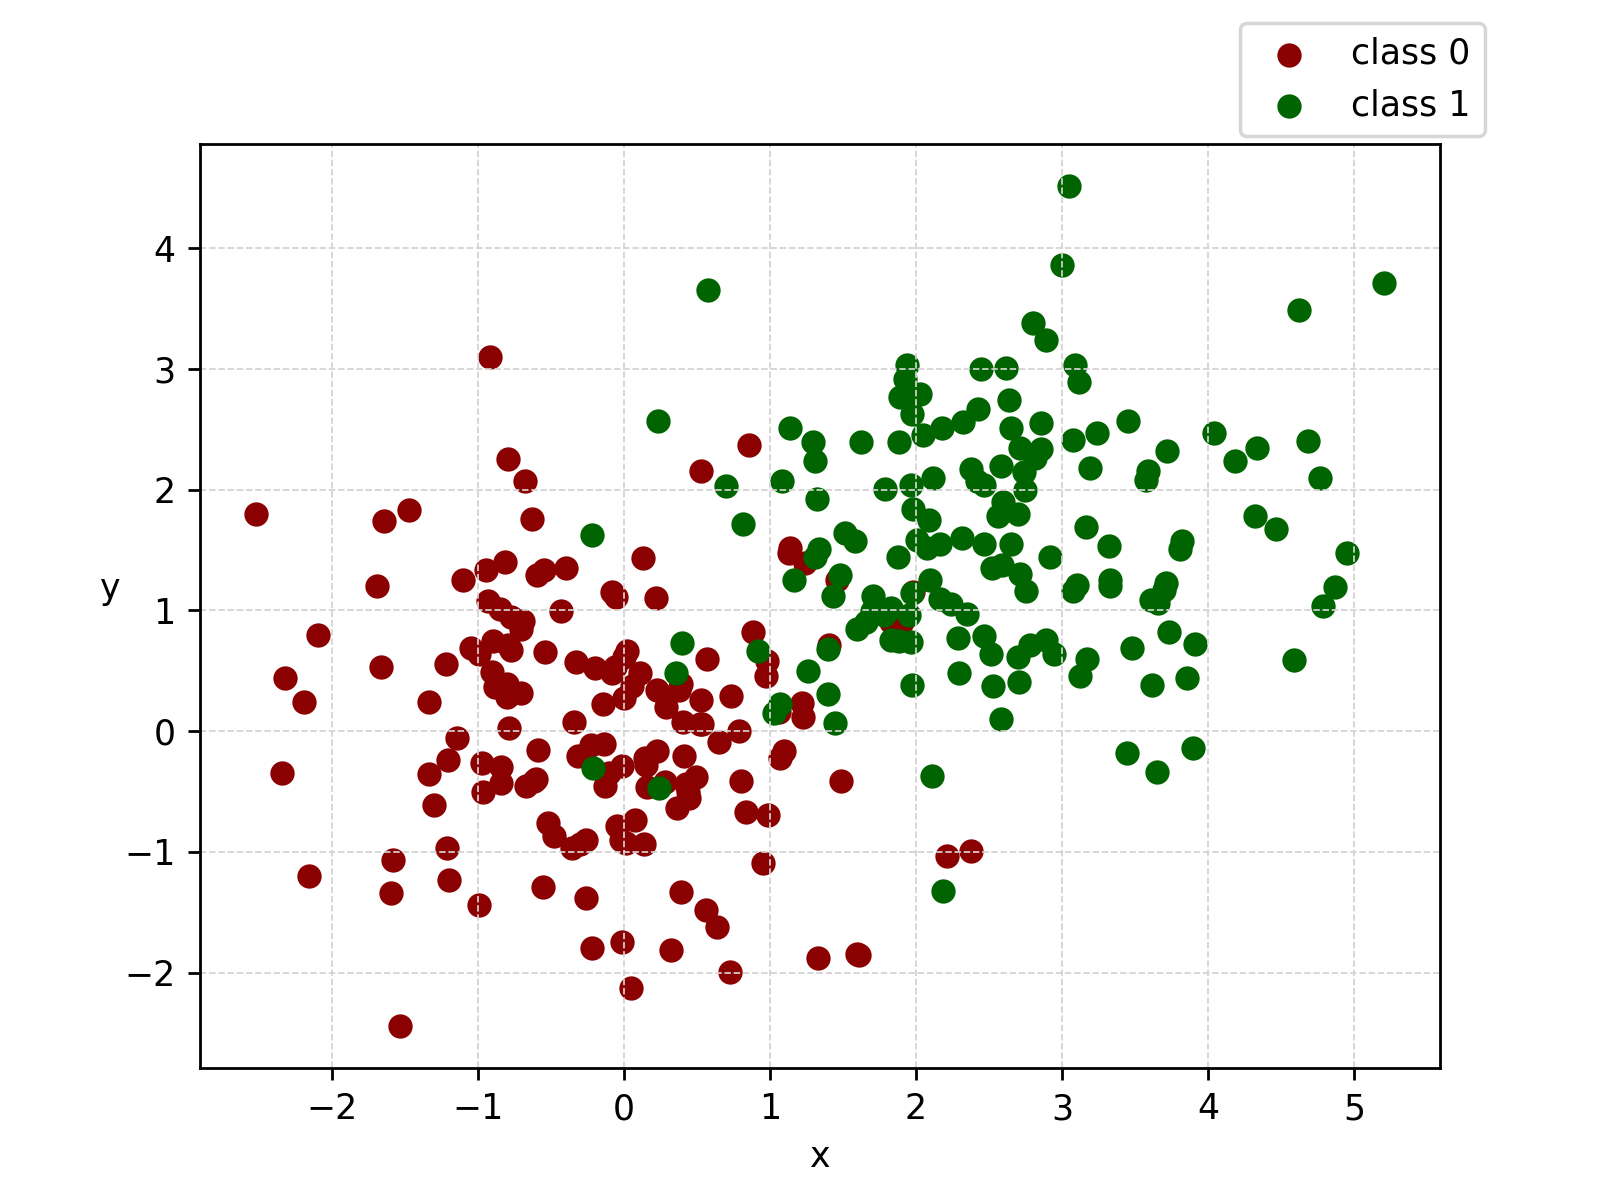
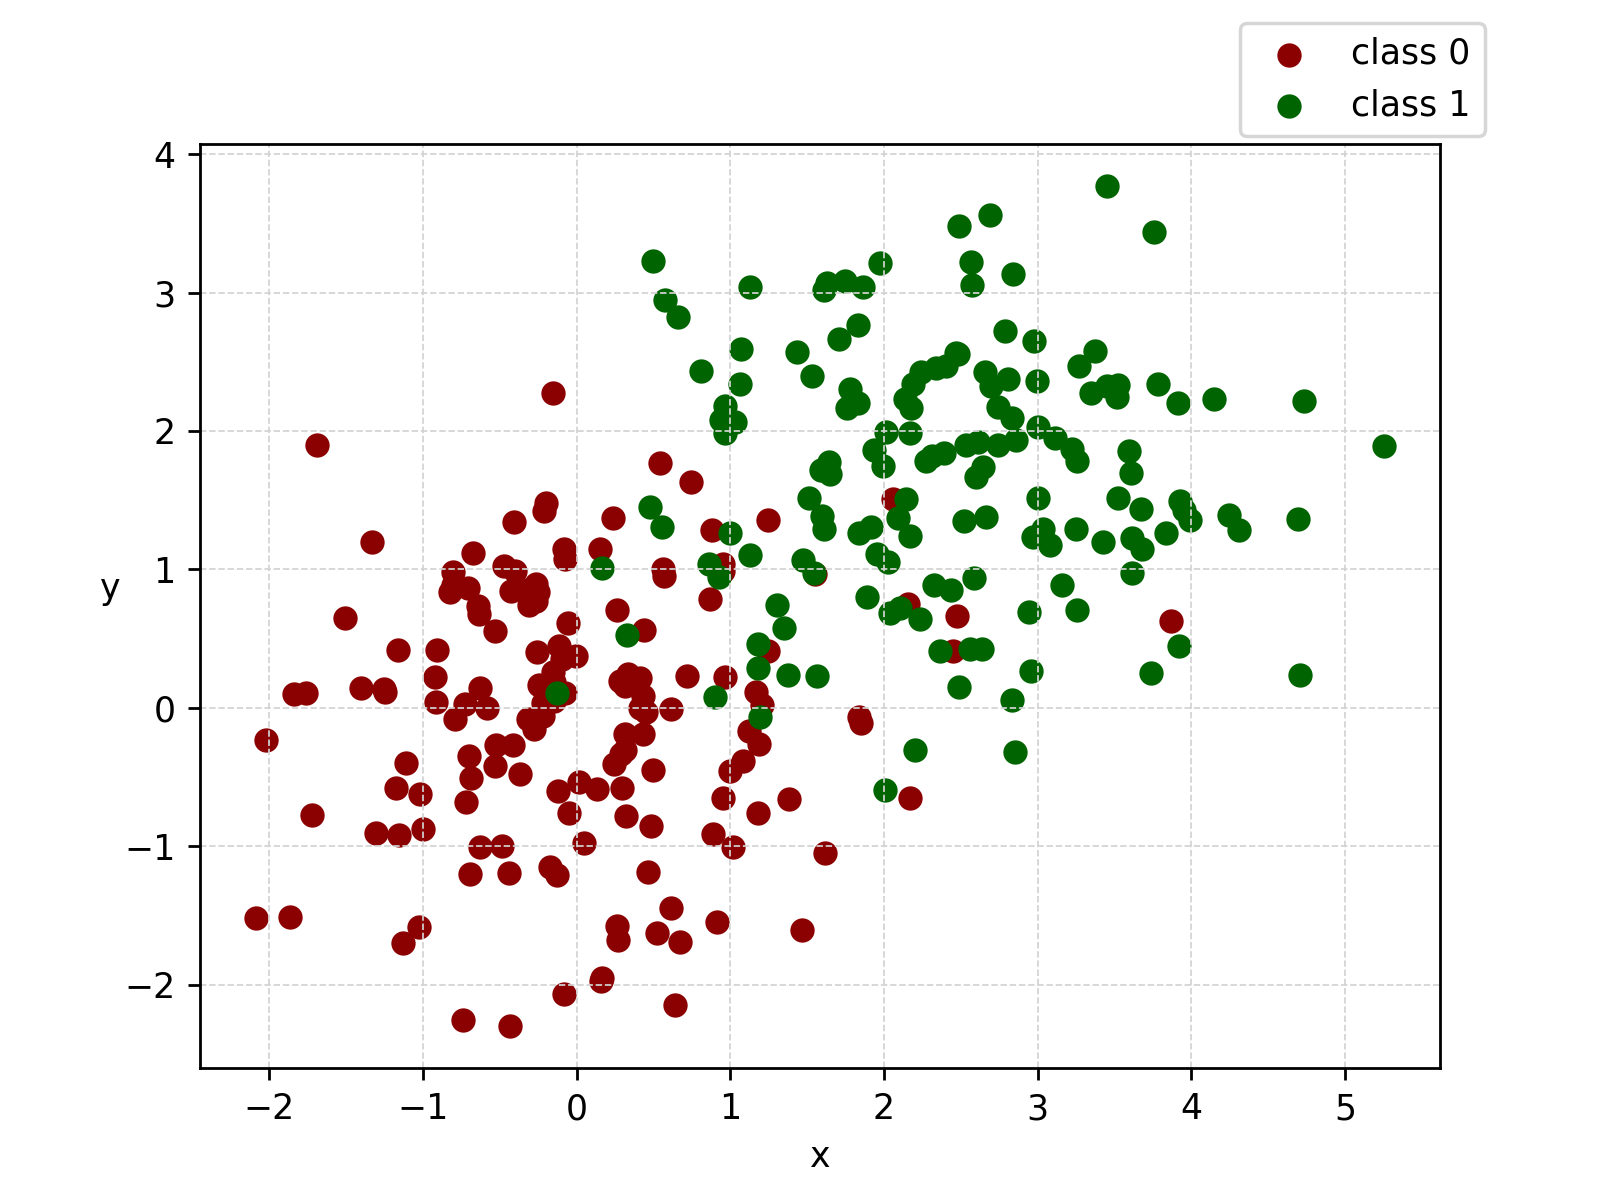
add scatterplot with decision boundary

diff --git a/2_matplotlib/2_scatterplot.py b/2_matplotlib/2_scatterplot.py
@@ -39,6 +39,30 @@ plt.savefig('scatterplot-2D-classes.png', dpi = 250)
 plt.clf()
 plt.close()
 
+print('2-D scatterplot with Decision Boundary')
+from sklearn.naive_bayes import GaussianNB
+classifier = GaussianNB()
+classifier.fit(data2D_classes, labels)
+from matplotlib.colors import ListedColormap
+
+plt.figure(figsize=(10,10))
+X1, X2 = np.meshgrid(np.arange(start = data2D_classes[:, 0].min() - 1, stop = data2D_classes[:, 0].max() + 1, step = 0.01),
+                     np.arange(start = data2D_classes[:, 1].min() - 1, stop = data2D_classes[:, 1].max() + 1, step = 0.01))
+plt.contourf(X1, X2, classifier.predict(np.array([X1.ravel(), X2.ravel()]).T).reshape(X1.shape),
+             alpha = 0.75, cmap = ListedColormap(('red', 'green')))
+plt.xlim(X1.min(), X1.max())
+plt.ylim(X2.min(), X2.max())
+for i, j in enumerate(np.unique(labels)):
+    plt.scatter(data2D_classes[labels == j, 0], data2D_classes[labels == j, 1],
+                c = [ListedColormap(('darkred', 'darkgreen'))(i)], label = int(j))
+plt.title('Decision Boundary')
+plt.xlabel('X1')
+plt.ylabel('X2', rotation=0)
+plt.legend()
+plt.savefig('scatterplot-2D-decision-boundary.png', dpi=250)
+plt.clf()
+plt.close()
+
 print('3-D')
 data3D = np.random.randn(300,3)
 
